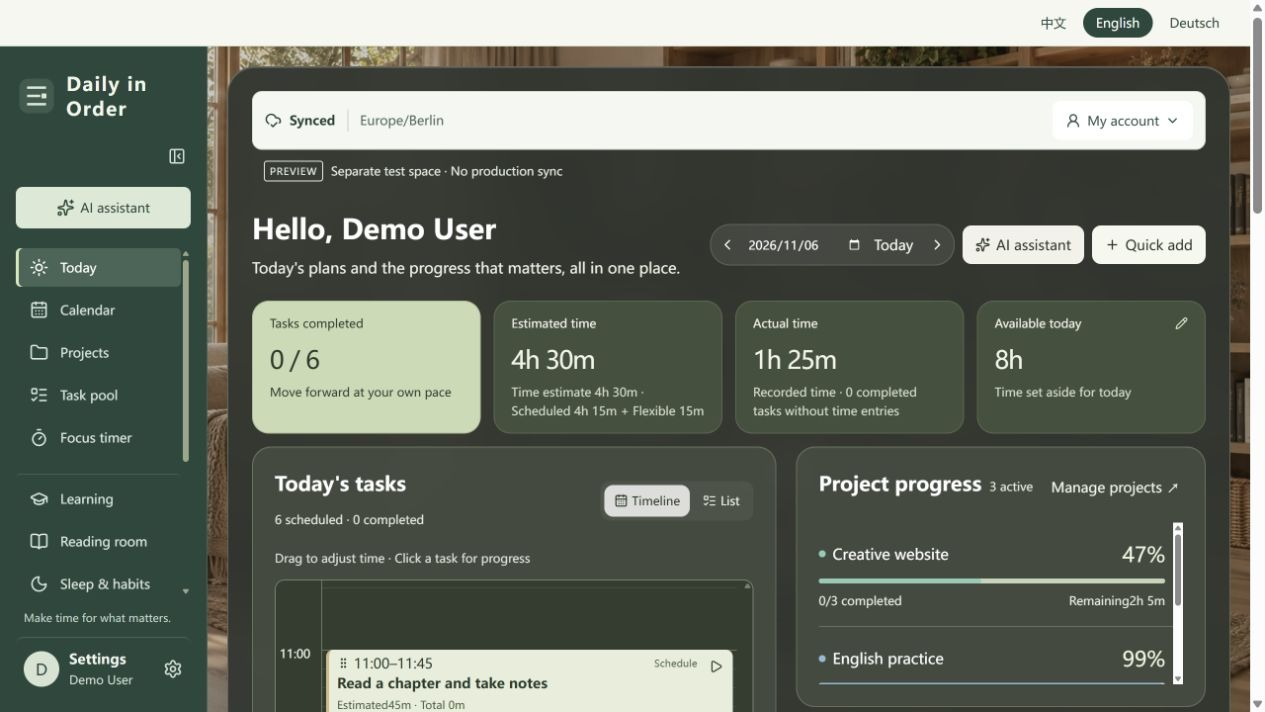
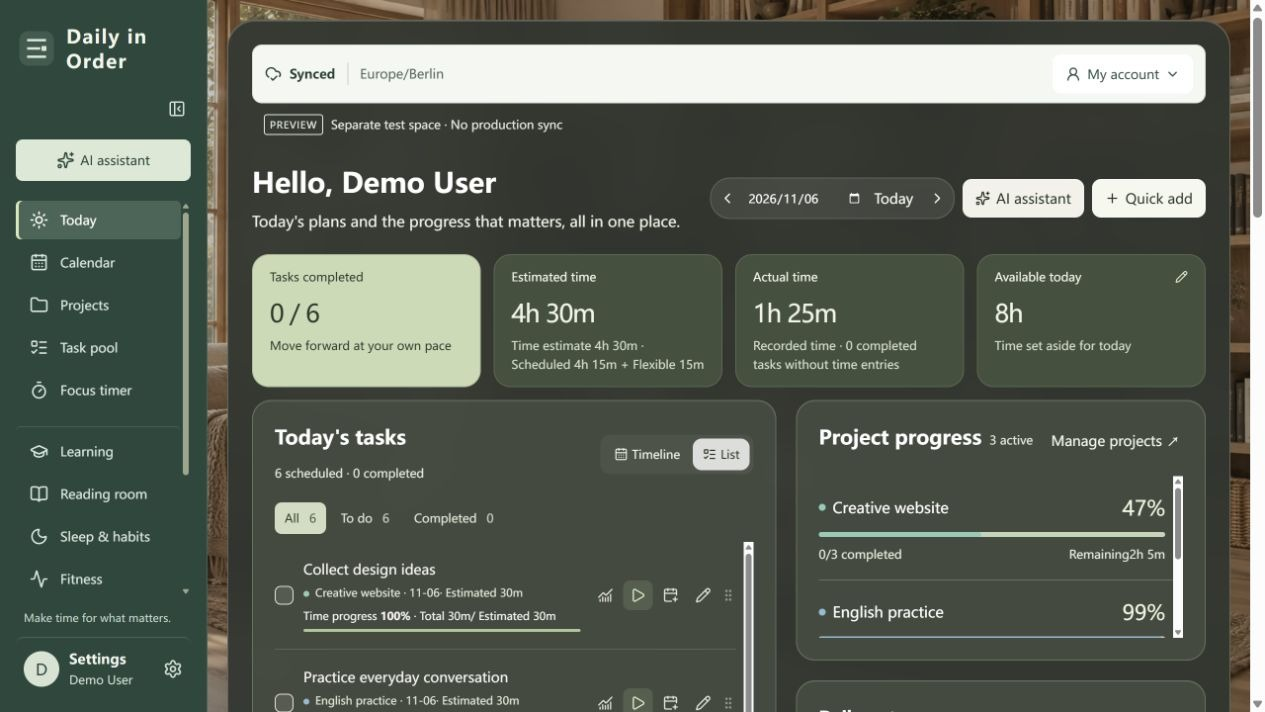
Move language switching into Settings

diff --git a/app/settings-page.tsx b/app/settings-page.tsx
@@ -1,4 +1,5 @@
 import {t as ui,tr,locale} from '../lib/i18n';
+import LanguageSwitch from './language-switch';
 import ModulePicker from './module-picker';
 import type {State,Command} from '../lib/model';
 import LifeSettings from './life-settings';
@@ -18,7 +19,7 @@ const sections=[
 type Props={state:State;tab:string;setTab:(tab:string)=>void;mutate:(c:Command,message?:string)=>Promise<boolean>;busy:boolean;openGoals:()=>void;openUsage:()=>void;openManual:()=>void};
 export default function SettingsPage({state:s,tab,setTab,mutate,busy,openGoals,openUsage,openManual}:Props){
  const current=sections.find(x=>x.name===tab)||sections[0];
- return <div className="settings-page"><header className="page-head"><div><h1>{ui("设置")}</h1><p>{ui("让工作台适合你的日常节奏。")}</p></div></header><div className="settings-layout"><nav className="settings-nav" aria-label={ui("设置分类")}>{sections.map(item=><div key={item.name}>{item.group&&<p className="settings-nav-group">{ui(item.group)}</p>}<button aria-current={tab===item.name?'page':undefined} onClick={()=>setTab(item.name)}><strong>{ui(item.title)}</strong><small>{ui(item.hint)}</small></button></div>)}</nav><div className="settings-content" id="settings-content"><header className="settings-content-head"><h2>{ui(current.title)}</h2><p>{ui(current.hint)}</p></header>
+ return <div className="settings-page"><header className="page-head"><div><h1>{ui("设置")}</h1><p>{ui("让工作台适合你的日常节奏。")}</p></div><div className="settings-language"><span>{ui("界面语言")}</span><LanguageSwitch/></div></header><div className="settings-layout"><nav className="settings-nav" aria-label={ui("设置分类")}>{sections.map(item=><div key={item.name}>{item.group&&<p className="settings-nav-group">{ui(item.group)}</p>}<button aria-current={tab===item.name?'page':undefined} onClick={()=>setTab(item.name)}><strong>{ui(item.title)}</strong><small>{ui(item.hint)}</small></button></div>)}</nav><div className="settings-content" id="settings-content"><header className="settings-content-head"><h2>{ui(current.title)}</h2><p>{ui(current.hint)}</p></header>
  {tab==='显示模块'?<section className="settings-card"><header><h3>{ui("只留下你在意的部分")}</h3><p>{ui("首页与左侧目录同步调整。关闭展示不会删除已有记录，随时可以重新开启。")}</p></header><ModulePicker modules={s.settings.visibleModules??['german','reading','habits','fitness','finance']} nutrition={s.settings.nutritionEnabled} disabled={busy} change={(modules,nutritionEnabled)=>void mutate({type:'life.modules',payload:{modules,nutritionEnabled}},ui("展示模块已更新。"))}/></section>:tab==='关于'?<AboutPage setTab={setTab}/>:tab==='生活偏好'?<LifeSettings key={JSON.stringify(s.life.preferences)} state={s} mutate={mutate} busy={busy}/>:tab==='问题反馈'?<FeedbackPanel/>:tab==='使用指南'?<section className="settings-card"><header><h3>{ui("从这里开始")}</h3><p>{ui("随时重新查看引导，已保存的记录会保留。")}</p></header><div className="settings-action-row"><div><h4>{ui("AI 帮我开始")}</h4><p>{ui("说说目标，通过对话创建项目、添加任务和安排时间。已有记录保留。")}</p></div><button className="primary" onClick={openUsage}>{ui("重新打开新手引导")}</button></div><div className="settings-action-row"><div><h4>{ui("设置我的生活目标")}</h4><p>{ui("依次设置学习、阅读、作息与运动目标。")}</p></div><button onClick={openGoals}>{ui("设置生活目标")}</button></div><div className="settings-action-row"><div><h4>{ui("学习如何使用工作台")}</h4><p>{ui("从创建项目开始，添加任务、安排时间轴，再查看进度。")}</p></div><button onClick={openManual}>{ui("手动操作引导")}</button></div></section>:tab==='回收站'?<section className="settings-card"><header><h3>{ui("已删除的项目和事项")}</h3><p>{ui("恢复项目时会一起恢复随它删除的任务。重复规则保持停用。")}</p></header>{s.projects.filter(p=>p.deletedAt).map(p=><div className="settings-action-row" key={p.id}><div><h4>{p.name}</h4><p>{ui("项目 ·")}{p.deletedAt?.slice(0,10)}</p></div><button disabled={busy} onClick={()=>void mutate({type:'project.restore',payload:{id:p.id}})}>{ui("恢复项目")}</button></div>)}{s.tasks.filter(t=>t.deletedAt).map(t=><div className="settings-action-row" key={t.id}><div><h4>{t.title}</h4><p>{t.date||ui("未排期")} · {t.deletedAt?.slice(0,10)}</p></div><button disabled={busy} onClick={()=>void mutate({type:'task.restore',payload:{id:t.id}})}>{ui("恢复事项")}</button></div>)}{!s.tasks.some(t=>t.deletedAt)&&!s.projects.some(p=>p.deletedAt)&&<p className="settings-empty">{ui("回收站是空的。")}</p>}</section>:<form key={tab} onSubmit={e=>{e.preventDefault();const f=new FormData(e.currentTarget),v={...s.settings};if(tab==='日历与偏好'){v.name=String(f.get('name'));v.timezone=String(f.get('timezone'));v.dayStart=String(f.get('dayStart'));v.weekStart=String(f.get('weekStart')) as typeof v.weekStart;v.defaultView=String(f.get('defaultView')) as typeof v.defaultView;v.askActual=f.get('askActual')==='on';v.reducedMotion=f.get('reducedMotion')==='on';v.weekly=Array.from({length:7},(_,i)=>Number(f.get('day'+i)));}else{v.focusMinutes=Number(f.get('focusMinutes'));v.growthRate=Number(f.get('growthRate'));}void mutate({type:'settings.save',payload:v},ui("设置已保存。"));}}><fieldset disabled={busy}>
  {tab==='日历与偏好'?<><section className="settings-card"><header><h3>{ui("个人信息")}</h3><p>{ui("工作台如何称呼你，以及你所在的时区。")}</p></header><div className="settings-field-row"><label htmlFor="settings-name">{ui("称呼")}</label><input id="settings-name" name="name" defaultValue={s.settings.name} required maxLength={30}/></div><div className="settings-field-row"><label htmlFor="settings-timezone">{ui("时区")}</label><div><input id="settings-timezone" name="timezone" defaultValue={s.settings.timezone} required list="timezones"/><datalist id="timezones"><option value="Europe/Berlin"/><option value="Asia/Shanghai"/><option value="Europe/London"/><option value="America/New_York"/></datalist></div></div></section>
  <section className="settings-card"><header><h3>{ui("日历习惯")}</h3><p>{ui("设置一天和一周的起点，以及打开日历时的视图。")}</p></header><div className="settings-field-row"><label htmlFor="settings-day-start">{ui("一天从几点开始")}<small>{ui("此前完成的记录仍归入前一天。")}</small></label><input id="settings-day-start" type="time" name="dayStart" defaultValue={s.settings.dayStart} required/></div><div className="settings-field-row"><label htmlFor="settings-week-start">{ui("一周的开始")}</label><select id="settings-week-start" name="weekStart" defaultValue={s.settings.weekStart}><option value="monday">{ui("周一")}</option><option value="sunday">{ui("周日")}</option></select></div><div className="settings-field-row"><label htmlFor="settings-default-view">{ui("日历默认视图")}</label><select id="settings-default-view" name="defaultView" defaultValue={s.settings.defaultView}><option value="month">{ui("月视图")}</option><option value="week">{ui("周视图")}</option><option value="day">{ui("日时间轴")}</option></select></div></section>

diff --git a/app/language.css b/app/language.css
@@ -1,4 +1,5 @@
-.language-switch{display:flex;justify-content:flex-end;align-items:center;gap:4px;padding:8px 18px;background:#f5f7ef;color:#29473c;border-bottom:1px solid #d4ded1;min-height:44px}.language-switch button{padding:4px 12px;font-size:13px;border-radius:16px;background:transparent;color:#29473c;border:1px solid transparent;min-height:30px}.language-switch button[aria-pressed=true]{background:#29473c;color:#fff}.language-switch button:focus-visible{outline:2px solid #789764;outline-offset:2px}html:is([lang=en],[lang=de]) .sidebar .nav-item{white-space:normal}html:is([lang=en],[lang=de]) .welcome-steps{flex-wrap:wrap}html:is([lang=en],[lang=de]) .life-section-tabs{flex-wrap:nowrap;overflow-x:auto}html:is([lang=en],[lang=de]) .life-section-tabs button{white-space:nowrap}html:is([lang=en],[lang=de]) .settings-toggle-row{gap:16px}html:is([lang=en],[lang=de]) .auth-password-toggle{min-width:58px}html:is([lang=en],[lang=de]) .welcome-step-actions{flex-wrap:wrap}html:is([lang=en],[lang=de]) .head-controls{flex-wrap:wrap}html:is([lang=en],[lang=de]) .settings-nav button{white-space:normal}html:is([lang=en],[lang=de]) .life-summary-strip{flex-wrap:wrap}html:is([lang=en],[lang=de]) .life-summary-strip>div{min-width:140px}
+.language-switch{display:flex;flex-wrap:wrap;align-items:center;gap:4px;padding:4px;background:#eef2e7;color:#29473c;border:1px solid #ccd7c4;border-radius:12px;width:fit-content;max-width:100%}.language-switch button{padding:6px 12px;font-size:13px;border-radius:8px;background:transparent;color:#29473c;border:1px solid transparent;min-height:34px}.language-switch button[aria-pressed=true]{background:#29473c;color:#fff}.language-switch button:focus-visible{outline:2px solid #789764;outline-offset:2px}.settings-language{display:flex;flex-direction:column;gap:8px;flex-shrink:0}.settings-language>span{font-size:13px;color:#526347}.settings-page>.page-head{flex-wrap:wrap;gap:20px}.auth-card>.language-switch{margin:20px auto 0}
+html:is([lang=en],[lang=de]) .sidebar .nav-item{white-space:normal}html:is([lang=en],[lang=de]) .welcome-steps{flex-wrap:wrap}html:is([lang=en],[lang=de]) .life-section-tabs{flex-wrap:nowrap;overflow-x:auto}html:is([lang=en],[lang=de]) .life-section-tabs button{white-space:nowrap}html:is([lang=en],[lang=de]) .settings-toggle-row{gap:16px}html:is([lang=en],[lang=de]) .auth-password-toggle{min-width:58px}html:is([lang=en],[lang=de]) .welcome-step-actions{flex-wrap:wrap}html:is([lang=en],[lang=de]) .head-controls{flex-wrap:wrap}html:is([lang=en],[lang=de]) .settings-nav button{white-space:normal}html:is([lang=en],[lang=de]) .life-summary-strip{flex-wrap:wrap}html:is([lang=en],[lang=de]) .life-summary-strip>div{min-width:140px}
 @media(max-width:650px){html:is([lang=en],[lang=de]) .app-shell .sidebar nav{grid-template-columns:repeat(4,minmax(0,1fr));gap:4px}html:is([lang=en],[lang=de]) .app-shell .sidebar nav button{min-width:0;min-height:64px;height:auto;padding:8px 3px;white-space:normal}html:is([lang=en],[lang=de]) .app-shell .sidebar nav button span{white-space:normal;line-height:1.25;overflow-wrap:normal}html:is([lang=en],[lang=de]) .settings-week-grid{grid-template-columns:repeat(2,minmax(0,1fr))}html:is([lang=en],[lang=de]) .life-section-nav{overflow-x:auto}html:is([lang=en],[lang=de]) .life-section-nav button{white-space:nowrap}}
 html:is([lang=en],[lang=de]) .brand small{display:none}html:is([lang=en],[lang=de]) .welcome-steps li{min-width:0}html:is([lang=en],[lang=de]) .welcome-steps span{overflow-wrap:anywhere}
 

diff --git a/app/workspace-shell.css b/app/workspace-shell.css
@@ -1,8 +1,4 @@
-/* The language header is measured, so zoom, text scaling and safe areas cannot
-   push a full-viewport sidebar below the window. Only its navigation scrolls. */
-:root{--language-bar-height:47px}
-:root .language-switch{position:sticky;top:0;z-index:30;flex-wrap:wrap;padding-top:calc(8px + env(safe-area-inset-top,0px))}
-:root .app-shell{min-height:calc(100dvh - var(--language-bar-height))}
+/* Navigation scrolls inside the viewport; the profile/settings entry stays visible. */
 :root .app-shell .sidebar-bottom{flex:none;margin-top:0;padding-top:12px;min-width:0}
 :root .app-shell .sidebar-bottom>p{margin:0 8px 10px}
 :root .app-shell .sidebar-bottom>.profile-settings{display:flex;align-items:center;gap:10px;padding:12px 8px;width:100%;min-height:64px;text-align:left;border-top:1px solid #ffffff26;border-radius:8px;white-space:normal}
@@ -13,7 +9,7 @@
 :root .app-shell .profile-settings>svg{flex:none;color:#d5e3d8}
 :root .app-shell .profile-settings:focus-visible{outline:2px solid #e0edbf;outline-offset:-2px}
 @media(min-width:651px){
- :root .app-shell .sidebar{top:var(--language-bar-height);height:calc(100dvh - var(--language-bar-height));min-height:0;overflow:hidden;padding-bottom:calc(12px + env(safe-area-inset-bottom,0px))}
+ :root .app-shell .sidebar{top:0;height:100dvh;padding-top:calc(24px + env(safe-area-inset-top,0px));min-height:0;overflow:hidden;padding-bottom:calc(12px + env(safe-area-inset-bottom,0px))}
  :root .app-shell .sidebar>.brand,:root .app-shell .sidebar>.collapse-btn,:root .app-shell .sidebar>.new-task{flex-shrink:0}
  :root .app-shell .sidebar>nav{flex:1 1 0;min-height:0;overflow-y:auto;overscroll-behavior:contain;scrollbar-width:thin;scrollbar-gutter:stable}
  :root .app-shell .sidebar>nav>button{flex-shrink:0}
@@ -25,7 +21,7 @@
  :root .app-shell .sidebar-bottom>.profile-settings{justify-content:center;padding:12px 4px;min-height:48px}
 }
 @media(min-width:651px) and (max-height:700px){
- :root .app-shell .sidebar{padding-top:12px}
+ :root .app-shell .sidebar{padding-top:calc(12px + env(safe-area-inset-top,0px))}
  :root .app-shell .sidebar .brand{margin-bottom:12px}
  :root .app-shell .sidebar .new-task{margin-bottom:12px}
  :root .app-shell .sidebar-bottom>p{display:none}
@@ -35,6 +31,6 @@
  :root .app-shell .sidebar-bottom{position:static;margin-top:10px;padding:0}
  :root .app-shell .sidebar-bottom>p{display:none}
  :root .app-shell .sidebar-bottom>.profile-settings{min-height:58px;padding:10px 4px}
- :root .app-shell{padding-top:0}
+ :root .app-shell{padding-top:env(safe-area-inset-top,0px)}
 }
 @media print{.language-switch{display:none!important}}

diff --git a/app/language-switch.tsx b/app/language-switch.tsx
@@ -1,5 +1,6 @@
-import {useEffect,useLayoutEffect,useRef,useSyncExternalStore} from 'react';
+import {useEffect,useSyncExternalStore} from 'react';
 import {language,setLanguage,subscribeLanguage} from '../lib/i18n';
 import './language.css';
 export function useLanguage(){return useSyncExternalStore(subscribeLanguage,language,()=> 'zh' as const);}
-export default function LanguageSwitch(){const lang=useLanguage(),bar=useRef<HTMLElement>(null);useLayoutEffect(()=>{const el=bar.current;if(!el)return;const update=()=>document.documentElement.style.setProperty('--language-bar-height',`${el.getBoundingClientRect().height}px`);update();const observer=new ResizeObserver(update);observer.observe(el);return()=>{observer.disconnect();document.documentElement.style.removeProperty('--language-bar-height');};},[]);useEffect(()=>{document.documentElement.lang=lang==='zh'?'zh-CN':lang;document.title=lang==='zh'?'日常有序':'Daily in Order';const manifest=document.querySelector('link[rel=manifest]');manifest?.setAttribute('href',lang==='zh'?'/manifest.webmanifest':`/manifest-${lang}.webmanifest`);},[lang]);return <nav ref={bar} className="language-switch" aria-label="Language / Sprache / 语言"><button type="button" lang="zh-CN" aria-pressed={lang==='zh'} onClick={()=>setLanguage('zh')}>中文</button><button type="button" lang="en" aria-pressed={lang==='en'} onClick={()=>setLanguage('en')}>English</button><button type="button" lang="de" aria-pressed={lang==='de'} onClick={()=>setLanguage('de')}>Deutsch</button></nav>;}
+export function LanguageMetadata(){const lang=useLanguage();useEffect(()=>{document.documentElement.lang=lang==='zh'?'zh-CN':lang;document.title=lang==='zh'?'日常有序':'Daily in Order';document.querySelector('link[rel=manifest]')?.setAttribute('href',lang==='zh'?'/manifest.webmanifest':`/manifest-${lang}.webmanifest`);},[lang]);return null;}
+export default function LanguageSwitch(){const lang=useLanguage();return <nav className="language-switch" aria-label="Language / Sprache / 语言"><button type="button" lang="zh-CN" aria-pressed={lang==='zh'} onClick={()=>setLanguage('zh')}>中文</button><button type="button" lang="en" aria-pressed={lang==='en'} onClick={()=>setLanguage('en')}>English</button><button type="button" lang="de" aria-pressed={lang==='de'} onClick={()=>setLanguage('de')}>Deutsch</button></nav>;}

diff --git a/src/main.tsx b/src/main.tsx
@@ -1,4 +1,4 @@
-import LanguageSwitch,{useLanguage} from '../app/language-switch';
+import LanguageSwitch,{LanguageMetadata,useLanguage} from '../app/language-switch';
 import {t as ui,tr,locale} from '../lib/i18n';
 import React,{useEffect,useState} from 'react';
 import {createRoot} from 'react-dom/client';
@@ -40,9 +40,9 @@ function App(){useLanguage();
  <button disabled={busy} type="submit" className="primary auth-submit">{busy?ui("请稍候…"):mode==='register'?ui("注册并发送验证邮件"):mode==='reset'?ui("发送重置邮件"):ui("登录")}</button>
  </form><div className="auth-links"><button disabled={busy} onClick={()=>{setMode(mode==='register'?'login':'register');setError('');setNotice('');}}>{mode==='register'?ui("已有账号，去登录"):ui("还没有账号？注册")}</button>{mode!=='reset'&&<button disabled={busy} onClick={()=>{setMode('reset');setError('');setNotice('');}}>{ui("忘记密码")}</button>}{mode==='reset'&&<button onClick={()=>setMode('login')}>{ui("返回登录")}</button>}</div></>}
  {error&&<p className="auth-error" role="alert">{ui(error)}</p>}{notice&&<p className="auth-notice" role="status">{ui(notice)}</p>}
- <p className="auth-foot">{ui("邮箱用于登录、验证及找回密码。请在共享设备上退出登录。")}</p></section></main>;
+ <p className="auth-foot">{ui("邮箱用于登录、验证及找回密码。请在共享设备上退出登录。")}</p><LanguageSwitch/></section></main>;
 }
-createRoot(document.getElementById('root')!).render(<><LanguageSwitch/><App/></>);
+createRoot(document.getElementById('root')!).render(<><LanguageMetadata/><App/></>);
 
 import '../app/identity.css';
 

diff --git a/app/about.tsx b/app/about.tsx
@@ -5,6 +5,7 @@ import BrandMark from './brand-mark';
 declare const __APP_VERSION__:string;
 type Update={date:string;title:string;items:string[]};
 const recent:Update[]=[
+ {date:'2026-11-06',title:'语言切换移到设置',items:['在设置页直接切换中文、英语与德语，顶部不再占用一行。']},
  {date:'2026-11-06',title:'侧栏不再被语言栏挤出屏幕',items:['按语言栏实际高度调整侧栏，目录单独滚动，底部入口保持可见。','设置、头像和个人名称合成一个入口，电脑与手机都能直接打开。']},
  {date:'2026-11-06',title:'通过对话，开始自己的工作台',items:['AI 入门与操作引导连通，可一次确认创建项目、任务和日程，支持继续对话修改。','老用户可在设置 → 使用指南重新打开；同名项目复用，已有记录保留。']},
  {date:'2026-11-06',title:'AI 助手，从第一次使用开始',items:['新用户直接看到 AI 入门，可用一句话整理安排，也可以自己写清单或跳过。','侧栏和今日概览新增独立 AI 助手入口，日后随时继续整理。']},

diff --git a/lib/german.ts b/lib/german.ts
@@ -1,5 +1,8 @@
 /** Interface text only. Preserve all user-authored content verbatim. */
 export const german:Record<string,string> = {
+  "语言切换移到设置": "Sprachauswahl in den Einstellungen",
+  "在设置页直接切换中文、英语与德语，顶部不再占用一行。": "Chinesisch, Englisch und Deutsch direkt in den Einstellungen wählen, ohne zusätzliche Leiste über dem Arbeitsbereich.",
+  "界面语言": "Sprache der Oberfläche",
   "侧栏不再被语言栏挤出屏幕": "Die Seitenleiste passt unter die Sprachauswahl",
   "按语言栏实际高度调整侧栏，目录单独滚动，底部入口保持可见。": "Die Seitenleiste passt sich der Höhe der Sprachauswahl an. Die Navigation scrollt separat, der untere Zugang bleibt sichtbar.",
   "设置、头像和个人名称合成一个入口，电脑与手机都能直接打开。": "Einstellungen, Avatar und Name bilden einen gemeinsamen Zugang auf Computer und Smartphone.",

diff --git a/lib/english.ts b/lib/english.ts
@@ -1,5 +1,8 @@
 /** Interface text only. Preserve all user-authored content verbatim. */
 export const english:Record<string,string> = {
+  "语言切换移到设置": "Language switching moves to Settings",
+  "在设置页直接切换中文、英语与德语，顶部不再占用一行。": "Switch between Chinese, English and German in Settings, without an extra bar above your workspace.",
+  "界面语言": "Interface language",
   "侧栏不再被语言栏挤出屏幕": "A sidebar that fits below the language bar",
   "按语言栏实际高度调整侧栏，目录单独滚动，底部入口保持可见。": "The sidebar follows the language bar height. Navigation scrolls independently while the bottom control stays visible.",
   "设置、头像和个人名称合成一个入口，电脑与手机都能直接打开。": "Settings, avatar and your name share one entry on desktop and mobile.",

diff --git a/README.en.md b/README.en.md
@@ -10,7 +10,7 @@ Daily in Order is a personal workspace with Chinese, English and German interfac
 
 This repository contains application source, tests and deployment scripts. It does not include the author's or other users' workspace records, backups, account credentials or production configuration. The hosted app requires your own account; self-hosted installations should use their own Firebase project.
 
-**v0.8.1 preview:** The sidebar fits the actual language-bar height. Navigation scrolls independently, with avatar, name and Settings combined in one bottom entry. Browser tabs and installed desktop apps share this layout. Production remains on the approved v0.8.0 release.
+**v0.8.2 preview:** Switch between Chinese, English and German beside the Settings heading; your choice is remembered on this device. The workspace no longer has a language bar at the top. Navigation scrolls independently, with avatar, name and Settings combined in one bottom entry. Production remains on the approved v0.8.0 release.
 
 ## Screenshots
 
@@ -24,7 +24,7 @@ AI-assisted setup is shown on the first visit; manual entry and skip remain avai
 
 ### Today
 
-A task list, project progress and daily notes. The v0.8.1 preview screenshot shows independent navigation scrolling and the bottom Settings entry in a shorter window, using synthetic records with lifestyle modules enabled.
+A task list, project progress and daily notes. The v0.8.2 preview screenshot shows the workspace without the top language bar, with independent navigation scrolling and the bottom Settings entry, using synthetic records with lifestyle modules enabled.
 
 ![Today dashboard with six synthetic tasks, project progress and fictional daily notes](docs/images/today-demo-en.jpg)
 

diff --git a/README.md b/README.md
@@ -10,7 +10,7 @@
 
 本仓库包含应用源码、测试和部署脚本，不包含作者或其他用户的工作台记录、备份、账号凭证或生产环境配置。在线服务需要注册自己的账号；自行部署时请使用自己的 Firebase 项目。
 
-**v0.8.1 预览更新：** 侧栏按顶部语言栏的实际高度适配窗口，目录独立滚动，底部「头像、名称、设置」合并为一个入口；网页与安装到桌面的应用使用同一套布局。当前正式版仍为已确认的 v0.8.0。
+**v0.8.2 预览更新：** 语言切换移到设置页标题旁，支持中文、English、Deutsch，并记住当前设备上的选择；工作台顶部不再显示语言栏。侧栏目录独立滚动，底部「头像、名称、设置」合并为一个入口。当前正式版仍为已确认的 v0.8.0。
 
 ## 界面预览
 
@@ -24,7 +24,7 @@
 
 ### 今日概览
 
-待办清单、项目进度和今日随记。v0.8.1 预览截图展示较矮窗口中的独立目录滚动与底部设置入口；使用虚构账号，生活模块已开启。
+待办清单、项目进度和今日随记。v0.8.2 预览截图展示去掉顶部语言栏后的工作台、独立目录滚动与底部设置入口；使用虚构账号，生活模块已开启。
 
 ![今日概览测试界面：六项示例任务、项目进度与虚构随记](docs/images/today-demo-zh.jpg)
 

diff --git a/docs/images/README.md b/docs/images/README.md
@@ -48,3 +48,9 @@ Updated both quick-start screenshots using a synthetic local emulator account. C
 Replaced `today-demo-zh.jpg` and `today-demo-en.jpg` with local emulator captures at 1280 × 720. Each synthetic account has three projects and six tasks, all unfinished, with partial recorded time; life modules are enabled to exercise a scrolling sidebar. Avatar, name and Settings remain visible below the navigation. Timeline and focus screenshots remain earlier examples.
 
 两张今日概览图片已替换为 1280 × 720 本地模拟器截图：中英文虚构账号各有三个项目、六项未完成任务及部分投入记录，开启生活模块以检查长目录滚动。头像、名称和设置在目录下方保持可见。时间轴与专注图片仍为较早的演示截图。
+
+### Language in Settings / 设置内语言切换（v0.8.2，2026-11-06）
+
+Refreshed both Today screenshots with the same synthetic local accounts and 1280 × 720 viewport after moving the language selector into Settings. The workspace no longer has a top language bar.
+
+语言切换移到设置页后，使用同类本地虚构账号重新截图；两张今日概览均为 1280 × 720，工作台顶部不再显示语言栏。
